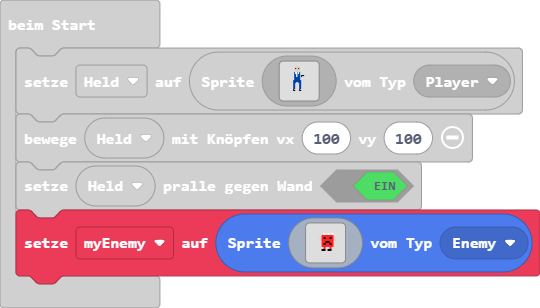
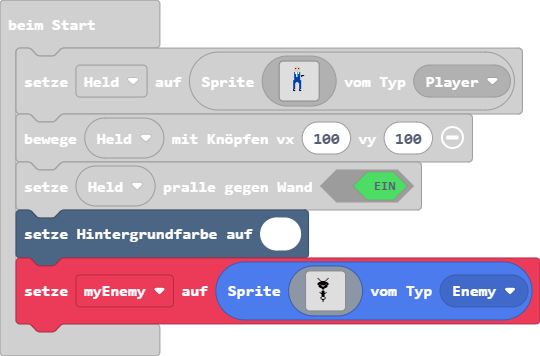
Aktualisiere main.blocks, main.ts

diff --git a/main.ts b/main.ts
@@ -34,23 +34,40 @@ let Held = sprites.create(img`
     `, SpriteKind.Player)
 controller.moveSprite(Held, 100, 100)
 Held.setBounceOnWall(true)
+scene.setBackgroundColor(1)
 let myEnemy = sprites.create(img`
-    . . . . . . . . . . . . . . . . 
-    . . . . . . . . . . . . . . . . 
-    . . . . . . . . . . . . . . . . 
-    . . . . . . . 1 . 1 . 1 . . . . 
-    . . . . . . 2 2 2 2 2 2 . . . . 
-    . . . . . d 2 f 2 2 f 2 d . . . 
-    . . . . . d 2 2 2 2 2 2 d . . . 
-    . . . . . . 2 2 f f 2 2 . . . . 
-    . . . . . . 2 f 2 2 f 2 . . . . 
-    . . . . . . 2 2 2 2 2 2 . . . . 
-    . . . . . . . 2 . . 2 . . . . . 
-    . . . . . . f f . f f . . . . . 
-    . . . . . . . . . . . . . . . . 
-    . . . . . . . . . . . . . . . . 
-    . . . . . . . . . . . . . . . . 
-    . . . . . . . . . . . . . . . . 
+    ................................
+    ................................
+    ................................
+    ........f.........f.............
+    .........f.......f..............
+    ..........f.....f...............
+    ...........fffff................
+    .........fffffffff..............
+    ........fffffffffff.............
+    ........ff2fffff2ff.............
+    .........fff1f1fff..............
+    .........ffff1ffff..............
+    ..........fffffff...............
+    ............fff.................
+    .............f..................
+    .............f..................
+    ............fff.................
+    ..........f.fff.f...............
+    ...........fffff................
+    ............fff.................
+    ............fff.................
+    ............fff.................
+    ...........f...f................
+    ...........f...f................
+    ............fff.................
+    .............f..................
+    .............f..................
+    ................................
+    ................................
+    ................................
+    ................................
+    ................................
     `, SpriteKind.Enemy)
 game.onUpdate(function () {
 	
